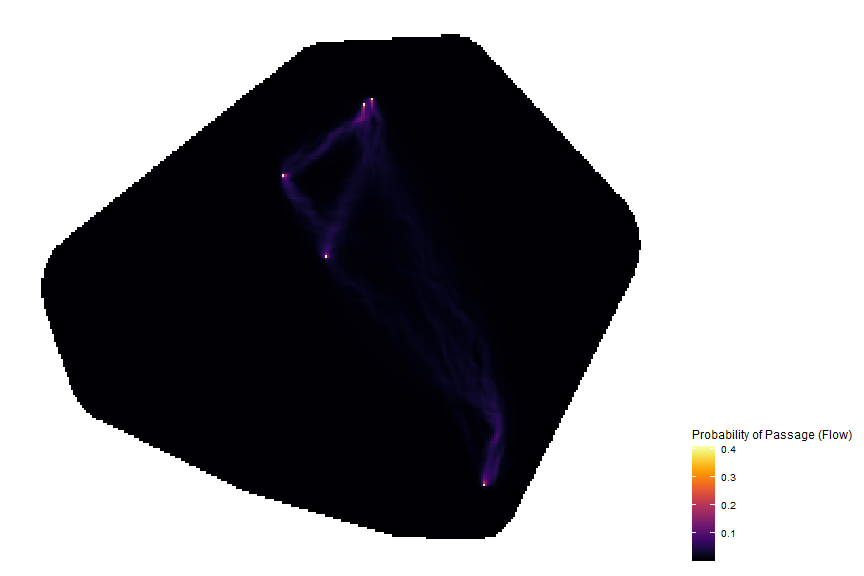
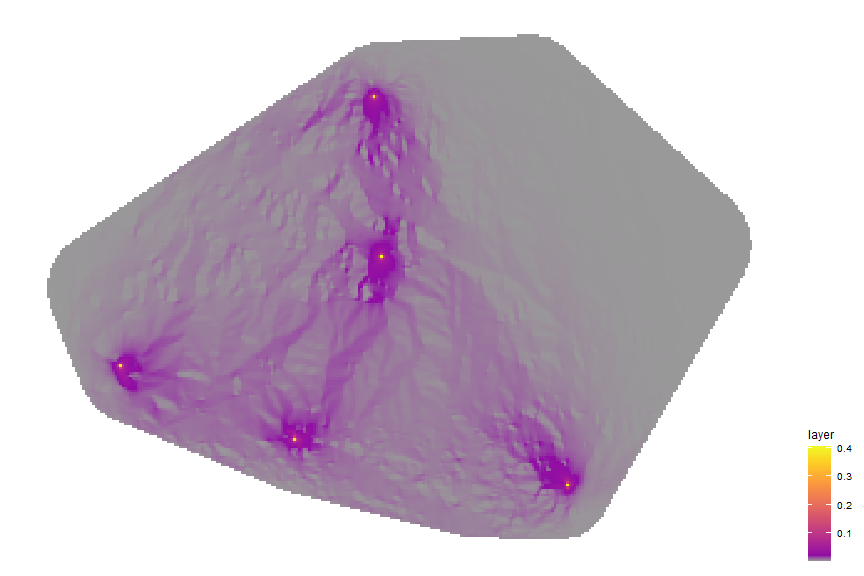
New image pathways

diff --git a/content/post/connectivity_script_mod.md b/content/post/connectivity_script_mod.md
@@ -1,0 +1,308 @@
+---
+title: "Mapping Ecological Flow in R (pt 1)"
+subtitle: "A tutorial on randomized shortest-path (or random walk, a la circuit theory)"
+author: J. Alex Baecher
+date: '2020-08-12'
+slug: connectivity script
+categories: ["r tutorials"]
+tags: ["Circuitscape", "Random Walks", "Conductance", "Ecological Modeling"]
+---
+
+
+Focusing on randomized paths between multiple locations (or populations, habitats, etc)
+---------------------------------------------------------------------------------------
+
+**Note** This is simply a tutorial. I’m not (for now) providing a review
+of the literature surrounding ecological connectivity, or commenting the
+different meanings of connectivity). This tutorial is strictly for
+demonstrating how to perform such an analysis, because–to my
+knowledge–such a tutorial doesn’t exist. That being said, please let me
+know if you find one!
+
+This analysis can be done in R using one of two methods: 1. using the R
+package `gdistance`, which performs the analysis natively 2. calling
+Circuitscape, an external GUI-based software widely used in ecology,
+from R
+
+In the future, I will post about using Circuitscape in R, making use of
+command prompt and a combination of packages, including Bill Peterman’s
+`ResistanceGA`. For now, I’m going to focus on performing the analysis
+natively using `gdistance`. Although, `gdistance` is only programmed to
+analysis randomized shortest-path between two locations, I will
+demonstrate how, through the use of a simple loop, you can perform the
+analysis in R.
+
+For the analysis, I will *only* use widely publically available data
+sets. As for a species, I’ve chosen the very charasmatic Jordan’s Red
+Cheeked Salamander, endemic to the Great Smoky Mountains National Park
+(USA). 
+
+{{< figure library="true" src="posts/connectivity_script_files/figure-markdown_strict/jrcs.jpg" title="Jordan's Red Cheeked Salamander" >}}
+
+For this tutorial, you’re going to need the following libraries
+installed: 
+* `gdistance` 
+* `tidyverse` 
+* `rgeos` 
+* `elevatr` 
+* `ggplot2` 
+* `tigris` 
+* `spocc` 
+* `raster` 
+* `viridis` 
+* `ggthemes`
+
+To save space and reduce the amount of intermediate variables, I will
+make use of the `tidyverse` syntax. This includes using data processing
+features of `dplyr` as well as pipes (`%>%`). If you prefer not to use
+these features, simply focus on the key functions and data sources which
+can easily be incorporated into your own preferred work flow.
+
+Let’s get started!
+------------------
+
+First, lets download a shapefile to work with.
+
+    library(tigris)         # Tigris package for USA census data
+    library(tidyverse)
+    states <- states()
+
+    se <- states %>%
+      subset(REGION == "3") 
+
+    TN_NC <- se %>%     # Subsetting the data to Tennessee and North Carolina
+      subset(NAME %in% c("Tennessee", "North Carolina"))
+
+Next, lets download some species occurrence records for Jordan’s Red
+Cheeked Salamander (JRCS) from the Global Biodiversity Information
+Facility using the R package `spocc`. In this query, I will pull *only
+the first* 1000 records. Yes, that means I’m pulling records in no
+particular order, and that they can be biased. Don’t @ me.
+
+    library(spocc)
+
+    ## Warning: package 'spocc' was built under R version 4.0.2
+
+    library(raster)
+
+    ## Warning: package 'raster' was built under R version 4.0.2
+
+    ## Loading required package: sp
+
+    ## 
+    ## Attaching package: 'raster'
+
+    ## The following object is masked from 'package:dplyr':
+    ## 
+    ##     select
+
+    ## The following object is masked from 'package:tidyr':
+    ## 
+    ##     extract
+
+    Pj <- occ(query = "Plethodon jordani",                 # JRCS scientific name
+              from = "gbif",                               # limiting query to *the first* 1000 records
+              limit=1000,                                  # limiting query to *the first* 1000 records
+              has_coords = T)                              # limiting those 1000 records to those that have geo-referenced data
+
+
+Now that we have the data, we need to organize and clean it using
+`dplyr`. Luckily, `spocc` has improved their naming system, so this is
+easier to do now.
+
+
+    Pj_sp <- Pj$gbif$data$Plethodon_jordani %>%            # Grabbing the Darwin-core data from the spocc object
+      dplyr::select(longitude,                             # Keep locations and year, discard the rest
+                    latitude,
+                    year) %>%                   
+      dplyr::filter(year > 2000) %>%                       # Filter records to only those after year 2000
+      filter(!duplicated(round(longitude, 2),              # Remove duplicate records using rounded decimals (this removes points very near to one-another)       
+                         round(latitude, 2)) == TRUE) %>%  # >> See notes below about ^^
+      dplyr::mutate(lon = scale(longitude),                # Remove points far outside the cluster of occurrences
+                    lat = scale(latitude)) %>%             # >> See notes below about ^^
+      dplyr::filter(!abs(lon)>2) %>%
+      dplyr::filter(!abs(lat)>2) %>%
+      dplyr::select(longitude,
+                    latitude) %>%
+      SpatialPoints(proj4string = crs(se)) 
+
+**Notes** To remove stacked points, or points that are clustered very
+closely, I rounded the decimal points to the second hundreths place and
+removed duplicates. This step is actually very biologically meaningful…
+Because we want to map potential flow between populations of JRCS, we
+want each point to represent a population–meaning each point must be
+sufficiently isolated so as to only be connected through stochastic
+disperal. Because JRCS is dispersal limited, I chose to remove points
+less that ~10 km from one another (approximately the resolution of the
+second decimal point of a gps coordinate).
+
+I removed points that were suspiciously far outside the cluster of
+presences by creating new variables: `lon` and `lat`, which are Z-scores
+of the latitude and longitude variables (by subtracting the mean and
+dividing by standard deviation, or using the `scale` function). I them
+removed values greater that 2, which represent points that are two
+standard deviations from the mean latitude and mean longitude.
+
+Let’s plot our points
+
+    library(ggplot2)
+    library(viridis)
+
+    ## Loading required package: viridisLite
+
+    library(ggthemes)
+
+    ggplot() + geom_polygon(data=se, aes(x=long, y=lat, grou=group), col="grey40", fill="grey80") +
+      geom_polygon(data=TN_NC, aes(x=long, y=lat), col="grey40", fill="light blue") + 
+      coord_quickmap() + theme_map()
+
+    ## Regions defined for each Polygons
+
+    ## Warning: Ignoring unknown aesthetics: grou
+
+    ## Regions defined for each Polygons
+{{< figure src="connectivity_script_files/figure-markdown_strict/plot_presences-1.png" title="Jordan's Red Cheeked Salamander" >}}
+
+To create a custom study area, shaped to our occurrence points, we can
+create a convex hull around our points using `chull()`.
+
+    Pj_coords <- Pj_sp@coords                                                  
+    Pj_chull <- chull(Pj_sp@coords)                           # Creating convex hull
+
+    Pj_chull_ends <- Pj_sp@coords[c(Pj_chull, Pj_chull[1]),]  # generate the end points of polygon. 
+    Pj_poly <- SpatialPolygons(
+      list(Polygons(
+        list(Polygon(Pj_chull_ends)), ID=1)),
+                                 proj4string = crs(se))       # convert coords to SpatialPolygons 
+
+Now, we will create a buffer around those points using
+`rgeos::gBuffer()`.
+
+    library(rgeos)
+    Pj_poly_buff <- gBuffer(Pj_poly, width = 0.05, byid=T)
+
+Let’s have a look at your buffered polygon:
+
+    ggplot() + geom_polygon(data=TN_NC, aes(x=long, y=lat), col="grey40", fill="light blue") + 
+      geom_polygon(data=Pj_poly_buff, aes(x=long, y=lat, grou=group), col="grey40", fill="pink") +
+      geom_point(data=as.data.frame(Pj_sp@coords), aes(x=longitude, y=latitude), size=0.01) + 
+      coord_quickmap() + theme_map()
+
+    ## Regions defined for each Polygons
+
+    ## Warning: Ignoring unknown aesthetics: grou
+{{< figure src="connectivity_script_files/figure-markdown_strict/unnamed-chunk-1-1.png" title="Buffered polygon" >}}
+
+To create our resistance layers for the connectivity analysis, let’s
+download a digital elevation model (DEM) using package `elevatr`.
+
+    library(elevatr)
+    elevation <- get_elev_raster(Pj_poly_buff, z = 8)         # This will find a DEM tile nearest to our polygon 
+
+While elevation is important, we can derive other biologically important
+variables using the `raster::terrain()`, inlcuding aspect (direction a
+hillside is facing) and topographic roughness index (TRI). In very
+simple terms, TRI calculates the change in elevation between a point and
+its surroundings (in a neighborhood of 8 points).
+
+    elv <- elevation %>%                                      # First, lets cut the DEM to our study area 
+      crop(Pj_poly_buff) %>%                                  # crop to the extent
+      mask(Pj_poly_buff)                                      # mask to the edges
+
+    asp <- terrain(elv, opt="aspect", neighbors = 8)          # Calculate aspect
+
+    ggplot(as.data.frame(asp, xy=T)) + geom_raster(aes(x=x, y=y, fill=aspect)) + 
+      scale_fill_continuous(na.value=NA) + theme_map() + theme(legend.position = "right")
+
+    ## Warning: Removed 18361 rows containing missing values (geom_raster).
+{{< figure src="connectivity_script_files/figure-markdown_strict/create_layers-1.png" title="creating gis layers for the Great Smoky Mtns" >}}
+
+To simplify our analysis for this demonstration, I’m going to cut down
+the number of presence points to only 5. Because we will be calculating
+pairwise random shortest-paths (from now on, “random walks”), we will
+calculate 10 paths.
+
+    set.seed(6)                                               # To make your results match mine
+    Pj_sample <- Pj_coords[sample(nrow(Pj_coords), 5),]       # Take 5 random locations
+
+    ggplot(as.data.frame(asp, xy=T)) + geom_raster(aes(x=x, y=y, fill=aspect)) + 
+      geom_point(data=as.data.frame(Pj_sample), aes(x=longitude, y=latitude), size=2, col="white") +
+      scale_fill_continuous(na.value=NA) + theme_map()
+
+    ## Warning: Removed 18361 rows containing missing values (geom_raster).
+{{< figure src="connectivity_script_files/figure-markdown_strict/gather_random_sample_of_sites-1.png" title="random sample of sites in the Great Smoky Mtns" >}}
+
+To make our pairwise random walks, we have to create a side index.
+Here’s quick little solution I made which creates a matrix of every
+conceivable combination of points:
+
+    Pj_combn <- combn(nrow(Pj_sample),2) %>%
+      t() %>%
+      as.matrix()
+
+To perform a random walks analysis, we have to create a transition
+matrix using `gdistance::transition()`, as well as perform a
+geocorrection.
+
+    library(gdistance)
+    asp_tr <- transition(asp, transitionFunction = mean, 4) %>%
+        geoCorrection(type="c",multpl=F)
+
+Now comes the fun part. This loop will perform the random walk routine
+using `gdistance:passage()` for each pairwise path, generating a flow
+map. This flow map can be considered as “conductance” a la Circuitscape,
+or the “probabilities of passages” based on randomized shortest-paths.
+
+    passages <- list()                                                     # Create a list to store the passage probability rasters in
+    system.time(                                                           # Keep track of how long this takes
+      for (i in 1:nrow(Pj_combn)) {           
+        locations <- SpatialPoints(rbind(Pj_sample[Pj_combn[i,1],1:2],     # create origin points
+                                          Pj_sample[Pj_combn[i,2],1:2]),   # create destination (or goal) points, to traverse
+                                    crs(se))
+        passages[[i]] <- passage(asp_tr,                                   # run the passage function 
+                                      origin=locations[1],                 # set orgin point
+                                      goal=locations[2],                   # set goal point
+                                 theta = 0.00001)                             # set theta (tuning parameter, see notes below)
+        print(paste((i/nrow(Pj_combn))*100, "% complete"))
+      }
+    )
+
+    ## [1] "10 % complete"
+    ## [1] "20 % complete"
+    ## [1] "30 % complete"
+    ## [1] "40 % complete"
+    ## [1] "50 % complete"
+    ## [1] "60 % complete"
+    ## [1] "70 % complete"
+    ## [1] "80 % complete"
+    ## [1] "90 % complete"
+    ## [1] "100 % complete"
+
+    ##    user  system elapsed 
+    ##   15.89    2.88   18.76
+
+    passages <- stack(passages)                                            # create a raster stack of all the passage probabilities
+    passages_overlay <- sum(passages)/nrow(Pj_combn)                       # calculate average
+
+**Notes** In our passage function, we set theta, (*θ*), a tuning
+parameter. Extremely low values result in a random walk (equivilant to
+Circuit Theory), but as *θ*¸ increases, the passage converges on least
+cost path. I supplied a value somewhere in the middle.
+
+    colors <- c("grey60", viridis_pal(option="plasma", begin = 0.3, end = 1)(20))
+    ggplot(as.data.frame(passages_overlay, xy=T)) + geom_raster(aes(x=x,y=y,fill=layer)) +
+      scale_fill_gradientn(colors = colors, na.value = NA) + 
+      theme_map() +   theme(legend.position = "right")
+
+    ## Warning: Removed 18361 rows containing missing values (geom_raster).
+{{< figure src="connectivity_script_files/figure-markdown_strict/plot_flow-1.png" title="Ecological Flow of Jordan's Red Cheeked Salamander" >}}
+
+There you have it!
+
+Now, this was an *extremely* short demonstration… In the future, I plan
+to make many additional posts on connectivity, what it means, how to use
+it, as well as provide some more tutorials.
+
+Best,
+
+-Alex.
